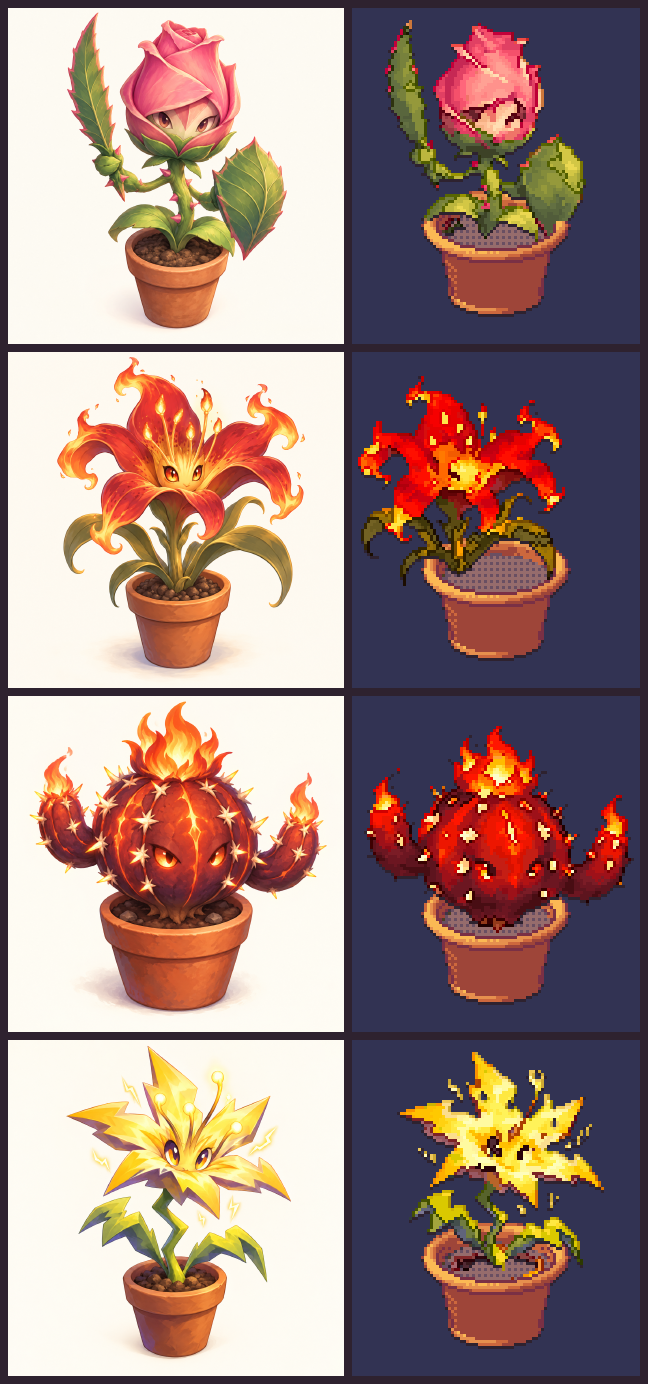
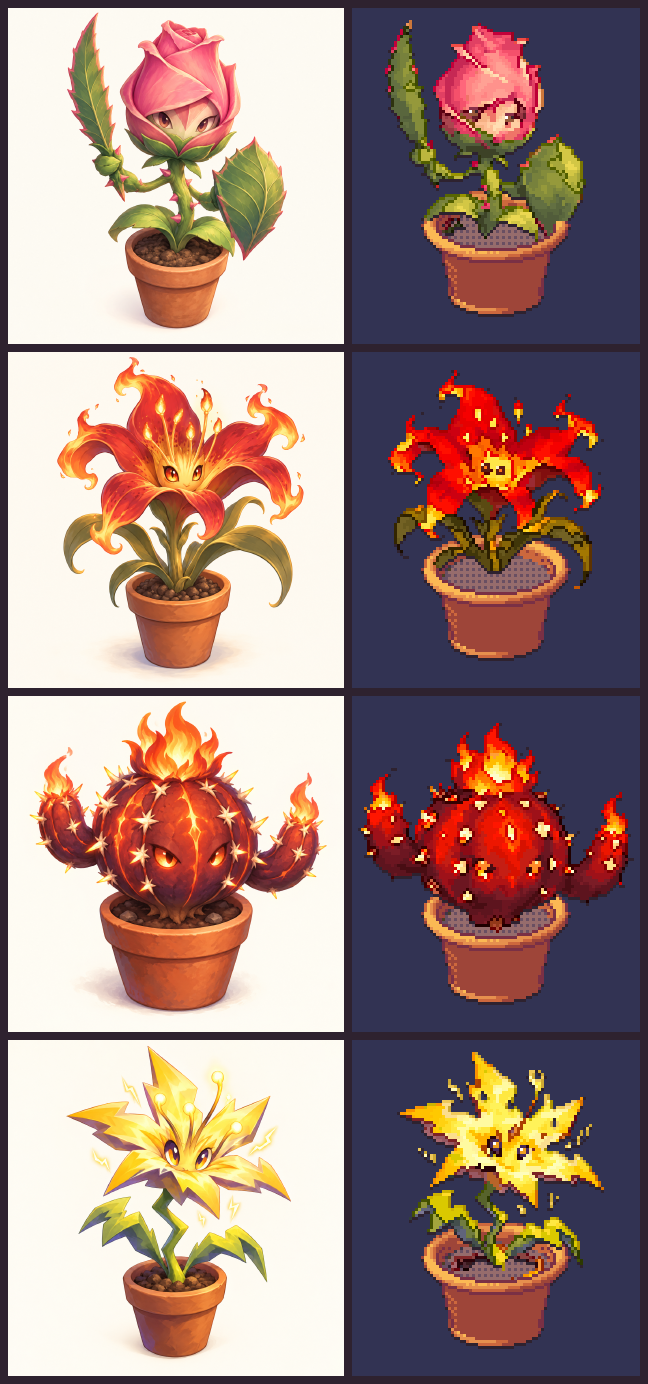
feat(v2-art): 변환본 눈 지정·깜빡임(eyes.mjs) + 누끼 가운데 정렬 + 생장 단계 변환 준비(--stages)
- eyes.mjs: 종별 대략 눈 자리(원본 좌표) → 근처 가장 어두운 칸으로 맞춤 → EYE 틀 도트 눈, 깜빡임(반쯤·감음)
- 누끼는 식물 전체 폭 가운데로 정렬(블레이즈블룸 왼쪽 쏠림)
- --anim 16장(눈 깜빡임 12~14장), --stages <키> 생장 단계 한 줄
- STAGES_PROMPT.md: 페탈로즈 생장 단계 4장(새싹·새잎·꽃봉오리·만개) 코덱스 누끼 생성 요청

diff --git a/tools/pixel/big/concept/STAGES_PROMPT.md b/tools/pixel/big/concept/STAGES_PROMPT.md
@@ -1,0 +1,18 @@
+Task: generate growth-stage images for one plant creature, as transparent cut-outs. Use the built-in image generation with C:\dev\pulloseum\tools\pixel\big\concept\flower_grass.png as the design reference image (same character, same art style, same colors, same lighting). Do not modify the reference file.
+
+Every output image must:
+- Have a fully transparent background with a real alpha channel (not white, not checkered).
+- Contain NO flower pot, NO soil, NO ground shadow — only the plant creature. Its base (where it would enter the soil) ends cleanly and naturally at the bottom center.
+- Be 1254x1254, with the plant centered horizontally and its base at the same height in every image (about 88 percent down the canvas), so the stages line up when shown one after another.
+- Keep one consistent scale across all stages: the plant visibly grows from small to large. At the mature stage it would be about as big as in the reference image.
+- Keep the same face design across stages (small calm eyes with an iris, as in the reference), so it is clearly the same creature growing up. No text, no frame.
+
+Stages to generate (file name - description):
+1. flower_grass_sprout.png - a tiny sprout: a short green stem with two small rounded leaves and a tiny closed pink bud tip with the small face. About one quarter of the mature height.
+2. flower_grass_juvenile.png - a young plant: a small closed pink rose bud head with the face, a few serrated leaves, a thin stem with small pink thorns. No sword or shield yet. About half of the mature height.
+3. flower_grass_growing.png - an adolescent plant: a larger bud head whose outer petal begins to wrap like a hood over the face, a green sepal collar, small thin arms holding a short leaf blade and a small round leaf. About three quarters of the mature height.
+4. flower_grass_evolved.png - the fully grown, most majestic form: the rose opens into a fuller crown of layered petals around the face, a longer serrated leaf sword raised high and a broad leaf shield with pink edges, more thorns, slightly larger than the reference.
+
+Save all four PNG files (with alpha) into C:\dev\pulloseum\tools\pixel\big\concept\stages\ (create the folder if needed). If the image tool saves files elsewhere, copy them there. Do not create, modify or delete any other file, and do not commit.
+
+When done, reply with the saved paths and confirm for each file that the corner pixels are fully transparent.
